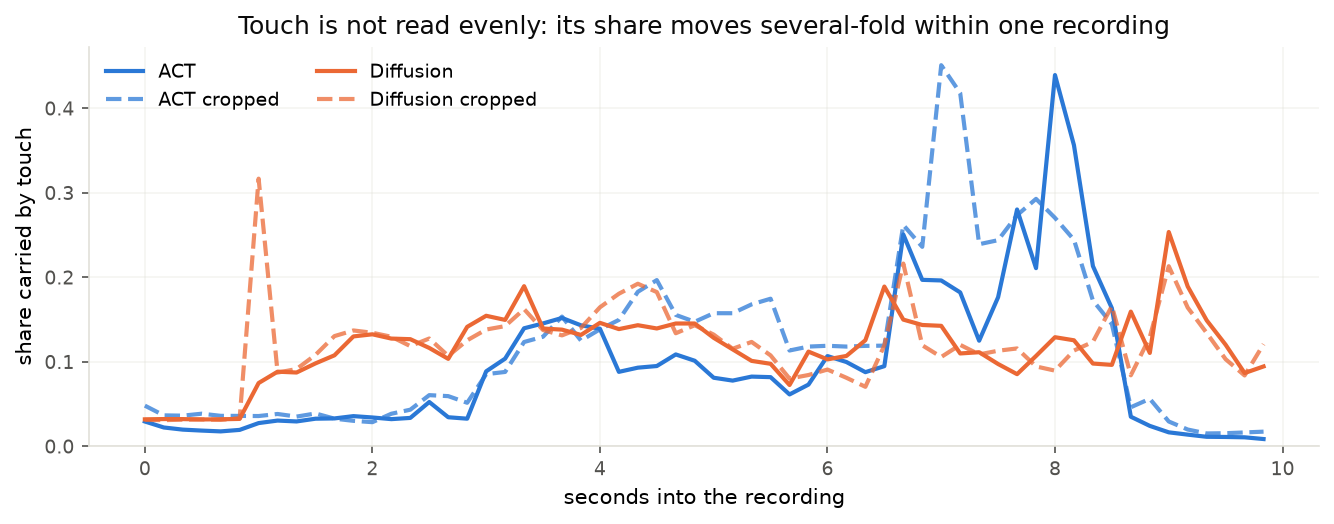
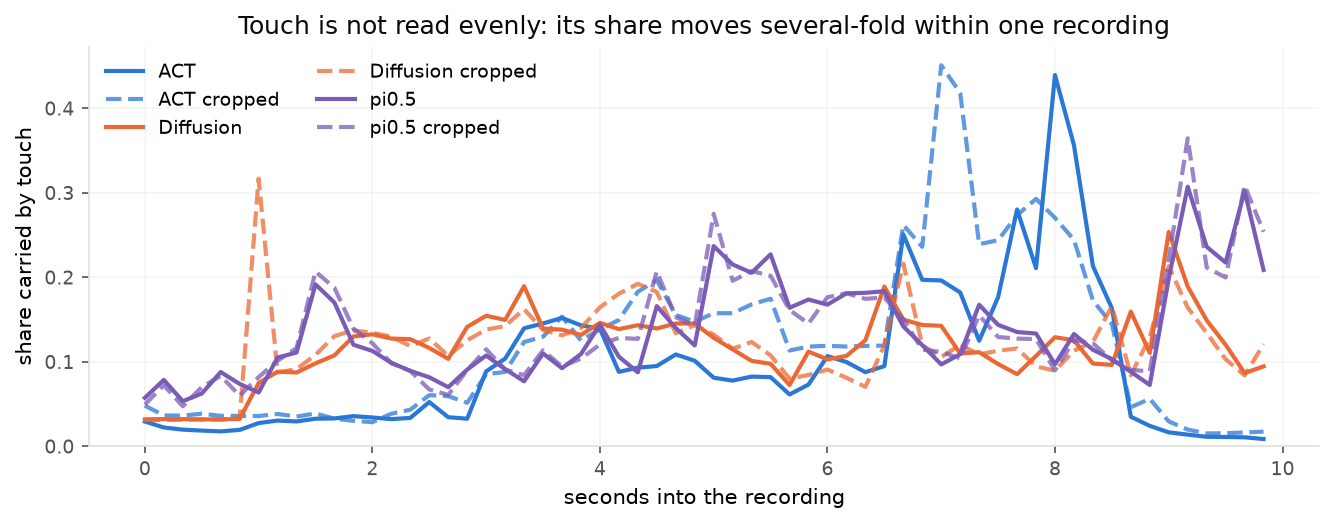
The third family's rows, a retracted figure, and the world models
pi0.5's held-out rows land, scored with its instruction: the smallest
gap in the table, and the report says why that is not generalisation --
its error on its own training recordings is above the other families'
error on recordings they never saw.

The stream-shares figure drew pi0.5 from a run that analysed an
untrained model (the adapter was never loaded), which is where "touch
above proprioception" came from. Rerun with the adapter: proprioception
about three quarters, like diffusion. The finding and the text change,
and the provenance says so.

Two new sections: the world models, and their future-observation
prediction -- scored against holding the last frame, plotted against
seconds because the two horizons barely overlap, with filmstrips of the
frames actually scored. Their action-error subsection is still pending.

Claude-Session: https://claude.ai/code/session_0196vDjqm3Zo6sQgqQLb5qwQ

diff --git a/documents/paper/training_analysis/sections/10_prediction.tex b/documents/paper/training_analysis/sections/10_prediction.tex
@@ -1,0 +1,108 @@
+\section{Predicting what the cameras will see}
+\label{sec:prediction}
+
+This section scores the predicted observations themselves, which is what the
+two world models exist for. It first states the trap that makes a raw image
+score misleading, then gives the measure that avoids it, and then shows the
+predictions next to what happened. Table~\ref{tab:prediction} and
+Figure~\ref{fig:predmargin} carry the numbers, and
+Figure~\ref{fig:filmstrip} carries the pictures.
+
+\paragraph{Repeating the present already scores well.}
+A camera that barely changes is easy to predict: copying the last observed
+frame forward matches the future closely. The fingertip cameras are the extreme
+case. Their gels change little except at contact, so holding the last frame
+already scores between about \num{21} and \num{27} decibels of peak
+signal-to-noise ratio (PSNR) on them, against \num{14} to \num{19} on the
+overhead camera.
+A model reported without that baseline would look good on the fingertips for a
+reason that has nothing to do with prediction.
+
+\paragraph{The measure is the margin over holding.}
+Every prediction is therefore scored beside the last observed frame held
+still, and the verdict is the number of horizon steps on which the model beats
+it by more than a tenth of a decibel. That is counted per camera and never
+pooled, because four of the five cameras are gels where holding is strong and
+the fifth is the one where the scene visibly moves; a pooled figure would be
+dominated by whichever group made prediction easiest. The structural similarity
+index (SSIM) is reported beside PSNR as a second opinion.
+
+\begin{table}[t]
+  \centering
+  \caption{Future-observation prediction on the seven held-back recordings.
+  \emph{Held} is the last observed frame repeated at every step. \emph{Steps
+  won} counts the horizon steps, each \SI{0.8}{\second} apart, on which the
+  model's PSNR exceeds holding by more than a tenth of a decibel. The two
+  models' steps are not the same length: the small model's are
+  \SI{0.8}{\second} apart, the large model's about \SI{0.13}{\second}, so
+  step counts compare within a row and never between models. The large model
+  reads the four fingertips as one composite image.}
+  \label{tab:prediction}
+  \small
+  \input{tables/prediction_table}
+\end{table}
+
+\begin{figure}[t]
+  \centering
+  \includegraphics[width=\textwidth]{prediction_margin.png}
+  \caption{Each world model's PSNR minus that of holding the last frame, per
+  camera and per horizon step. Above the line the model predicts better than
+  doing nothing, plotted against time rather than step because the two models
+  predict over different spans: the small model from \SI{0.8}{\second} to
+  \SI{4.8}{\second} ahead, the large one to about \SI{1}{\second}. For the
+  small model the fingertip line is the mean of its four fingertip cameras; the
+  large model is scored on its single composite.}
+  \label{fig:predmargin}
+\end{figure}
+
+\textbf{The small world model predicts the future better than holding the
+present, on every camera, from the second step onwards.} It wins five or six
+of six steps on each camera, by roughly three to eight decibels beyond the
+first step. The margin is largest on the fingertip cameras, which is where
+holding is strongest, so the model is not winning where the baseline is weak.
+It loses or ties only at the first step, \SI{0.8}{\second} ahead, where the
+future still looks almost exactly like the present.
+
+\begin{figure}[t]
+  \centering
+  \includegraphics[width=\textwidth]{dreamzero_filmstrip.png}
+  \caption{One held-back moment, as the small world model predicted it. For each camera the rows are what
+  happened, what the model predicted, and the last observed frame held still;
+  columns are horizon steps \SI{0.8}{\second} apart. The images are the ones
+  the numbers in Table~\ref{tab:prediction} were computed from.}
+  \label{fig:filmstrip}
+\end{figure}
+
+Figure~\ref{fig:filmstrip} shows what those margins look like. In the last
+observed frame the arms are down over the garment and one fingertip gel shows
+the bright marks of contact. In what actually followed, the arms lift clear and
+the contact marks vanish. \textbf{The model predicts the release rather than
+the present:} its fingertip rows lose the contact marks as the real ones do,
+and its overhead rows show the arms lifted. Its images are blurrier than the
+real ones, which is where the remaining error lies, but the change it predicts
+is the change that happened.
+
+\textbf{The large model predicts only a second ahead, and within that second
+it gains on holding only at the fingertips.} On the overhead camera it stays
+within half a decibel of the held frame throughout, winning two of its eight
+steps by the stated margin. On the fingertip composite it starts below holding
+and climbs to about five decibels above it by the end of its horizon. Its
+horizon is set by how it was trained, not by this evaluation: it predicts nine
+frames spaced four apart, so it never looks further ahead than the small
+model's first step.
+
+The two models overlap at one instant, \SI{0.8}{\second} ahead, and there the
+large model is ahead on both panels of Figure~\ref{fig:predmargin}. That is
+the only direct comparison the data allow, and it is one point. It is
+consistent with a pretrained video prior helping in the near term, and it says
+nothing about the seconds beyond, where only the small model predicts at all
+and where it keeps its margin. Whether the prior buys anything over a longer
+horizon would need the large model trained to predict one.
+
+Three limits bound this section. Both models sample, and every number here uses
+one pinned seed; a different seed gives a different rollout, and the spread
+across seeds was not measured for these checkpoints. The two models see the
+fingertips differently, as four images or one composite, so their fingertip
+margins are comparable in direction and not to the decibel. And predicting the
+next few seconds of the cameras well is not the same as acting well:
+Section~\ref{sec:wmactions} is where their actions are scored.

diff --git a/documents/paper/training_analysis/sections/06_findings.tex b/documents/paper/training_analysis/sections/06_findings.tex
@@ -46,13 +46,13 @@ observation that motivated the crop. \emph{Bound:} measured on training
 recordings, and the rise after cropping is partly mechanical, since removing
 the outer rows moves the surviving pixels closer to the new edge.
 
-\paragraph{\textbf{The families do not use the rig the same way, and the
-tactile channels rank last for two of the three.}} The action-chunking family
-leans on the overhead camera, the diffusion family on proprioception, and the
-third ranks touch above proprioception --- the only one to do so.
-\emph{Bound:} shares are normalised within a policy, so this is a claim about
-ordering and never about magnitudes; and the third family reads half as many
-tactile cameras as the others.
+\paragraph{\textbf{The families do not use the rig the same way, and two of
+the three lean mostly on proprioception.}} The action-chunking family leans on
+the overhead camera; the diffusion and fine-tuned families each take about
+three quarters of their plan's movement from where the arms are. Touch ranks
+last or near-last for all three. \emph{Bound:} shares are normalised within a
+policy, so this is a claim about ordering and never about magnitudes; and the
+fine-tuned family reads half as many tactile cameras as the others.
 
 \paragraph{\textbf{A pooled contribution understates what touch does by about
 fivefold.}} Within one held-back recording the share carried by the fingertip
@@ -62,12 +62,12 @@ carries much of the plan. \emph{Bound:} one recording, and a contribution is a
 measure of use rather than of necessity; the swing is large enough that its
 direction does not depend on either.
 
-\paragraph{\textbf{The two families read touch in different rhythms, not merely
-in different amounts.}} The action-chunking family reads it in bursts, peaking
-at four to five times its own mean; the diffusion family reads it steadily,
-peaking at barely twice. \emph{Bound:} visible only framewise, on one recording,
+\paragraph{\textbf{Only one of the three families reads touch in bursts.}}
+The action-chunking family peaks at four to five times its own mean; the
+diffusion and fine-tuned families read it steadily, peaking at two to two and
+a half times theirs. \emph{Bound:} visible only framewise, on one recording,
 and normalised within each policy --- so this compares each family against its
-own average and never one family's magnitude against the other's.
+own average and never one family's magnitude against another's.
 
 \paragraph{\textbf{A policy can be flat across its entire planning horizon on
 recordings it trained on.}} The action-chunking family predicts the hundredth
@@ -75,6 +75,13 @@ step of a familiar recording about as accurately as the first. That is what
 reproducing a memorised trajectory looks like, and it is not what planning
 looks like. \emph{Bound:} a statement about behaviour on training data, not
 about competence on the rig.
+
+\paragraph{\textbf{The smallest generalisation gap belongs to the least-fitted
+policy.}} The fine-tuned family loses only a tenth on recordings it never saw,
+because its error on recordings it trained on is already above the other
+families' held-out error. A small gap can mean a policy that never fitted its
+training data. \emph{Bound:} one training budget of about one pass over the
+data; a longer run could open the gap.
 
 One further finding follows from the control rather than from any single
 measurement. \textbf{The gap is not an artefact of when the held-back

diff --git a/documents/paper/training_analysis/sections/03_results.tex b/documents/paper/training_analysis/sections/03_results.tex
@@ -31,15 +31,15 @@ so neither can be quoted without the other.
   error divided by trained-on error. It appears in both groups because it
   differs between them: the longer-horizon family's ratio falls from
   \num{5.3} to \num{4.1} when the far end of its chunk --- where its held-out
-  error grows fastest --- is excluded. The dashes are the policy family whose
-  matched retraining had not finished when this was written.}
+  error grows fastest --- is excluded.}
   \label{tab:policies}
   \small
   \input{tables/policy_table}
 \end{table}
 
-Read across the shared-horizon column, the two families that have completed
-differ by less than a tenth, with the diffusion family ahead. Read down the gap
+Read across the shared-horizon column, the two families trained from scratch
+differ by less than a tenth, with the diffusion family ahead, and the fine-tuned
+family trails both by around half. Read down the gap
 column, they differ by more than twofold: the action-chunking family is roughly
 four times worse on recordings it never saw than on recordings it trained on,
 while the diffusion family is under twice as bad. The gap is a ratio computed
@@ -78,6 +78,21 @@ like. On recordings it never saw, the same family's error climbs steeply with
 distance into the chunk. The diffusion family climbs steeply in both panels,
 which is the ordinary and expected behaviour: predictions further ahead are
 worse.
+
+\textbf{The fine-tuned family's small gap is not generalisation.} Its held-out
+error is only about a tenth above its trained-on error, the smallest gap in
+Table~\ref{tab:policies}, and read alone that looks like the most robust policy
+in the report. It is not. Over the shared horizon its error on recordings it
+\emph{trained on} is \num{13.8}, which is already higher than either other
+family's error on recordings it \emph{never saw}, at \num{10.1} and \num{9.2}.
+Its two curves in Figure~\ref{fig:horizon} nearly coincide for the same reason.
+This family trained for roughly one pass over its recordings, adapting only a
+small low-rank addition to a large pretrained model, so it never fitted the
+training half closely enough to have anything to lose on the held-out half. Its
+row therefore measures what this training budget buys, not how the family
+compares at convergence. It also reads three cameras where the others read
+five. Its cropped arm is about one per cent lower on both halves, but no
+sampler floor was measured for this family, so that difference is not claimed.
 
 \unjustified{} the sampling rate of one frame in twenty was chosen to keep the
 scoring of six policies within a working day and has not been shown to leave

diff --git a/documents/paper/training_analysis/sections/05b_framewise.tex b/documents/paper/training_analysis/sections/05b_framewise.tex
@@ -28,11 +28,12 @@ whether two panels differ because the policies differ or because the moments do.
 \begin{figure}[t]
   \centering
   \includegraphics[width=\textwidth]{framewise_shares.png}
-  \caption{The share of the plan carried by the four fingertip cameras, through
+  \caption{The share of the plan carried by the fingertip cameras, through
   one held-back recording. Colour follows the family and a dashed line marks the
   cropped arm, so the pair within a colour is the crop comparison. Shares are
   normalised within a policy, so heights may be compared along a curve but not
-  between colours.}
+  between colours. The fine-tuned family reads two fingertip cameras and the
+  others four.}
   \label{fig:framewise}
 \end{figure}
 
@@ -45,13 +46,17 @@ over two fifths of the plan at its peak. Any conclusion of the form ``the
 tactile cameras contribute little'' drawn from a pooled figure is therefore a
 statement about an average, not about the moments the sensor exists for.
 
-\textbf{The two families do not read touch the same way.} The action-chunking
-family reads it in bursts, its peak reaching four to five times its own mean;
-the diffusion family reads it steadily, ranging eightfold where the other ranges
-fiftyfold, and peaking at barely twice its mean. One family treats the
-fingertips as an occasional check and the other as a continuous input, and that
-difference is invisible in every pooled figure in this report. Why they differ
-is not established here.
+\textbf{Only the action-chunking family reads touch in bursts.} Its peak
+reaches four to five times its own mean. The diffusion family reads touch
+steadily, ranging eightfold where the action-chunking family ranges fiftyfold,
+and peaking at barely twice its mean. The fine-tuned family behaves like the
+diffusion family, peaking at around two and a half times its mean. One family
+treats the fingertips as an occasional check and the other two as a continuous
+input, and that difference is invisible in every pooled figure in this report.
+The two steady families both generate their plans by iterative denoising, and
+the bursty one does not; that is a correlation across three policies and is
+not tested here. The fine-tuned family reads only two of the four fingertip
+cameras, so its share is over those two.
 
 \begin{figure}[t]
   \centering

diff --git a/documents/paper/training_analysis/sections/07_provenance.tex b/documents/paper/training_analysis/sections/07_provenance.tex
@@ -34,7 +34,10 @@ policy. The shared-horizon column is the same curve averaged over only its first
 thirty-two positions, which is why the two columns can differ for the same
 policy and why both are reported. Policies whose output is sampled have their
 sampler fixed to a recorded seed, so that rerunning the scoring reproduces the
-number rather than redrawing it.
+number rather than redrawing it. The fine-tuned family reads a written
+instruction as well as its cameras, and it is scored with the instruction it
+was trained on; an earlier scoring that supplied none put its held-out error
+about a tenth higher.
 
 \paragraph{The input contributions, Figure~\ref{fig:streams}.}
 For each sampled frame the policy plans once with all inputs present. Each input
@@ -44,6 +47,13 @@ than introducing an artificial edge --- and the policy plans again. The size of
 the change between the two plans is that group's contribution on that frame.
 Contributions are summed over frames and normalised to sum to one within each
 policy, which is what restricts the figure to statements about ordering.
+
+\textbf{A correction to this figure.} An earlier version drew the fine-tuned
+family's bar from a run in which its trained adapter had not been loaded, so it
+described an untrained model; that bar put proprioception at a twentieth and
+touch at two fifths. The bar shown here reruns the same checkpoint on the same
+recordings with the adapter loaded and the task instruction supplied. The other
+two bars were never affected, because those families store complete weights.
 
 \paragraph{The rim measure, Figure~\ref{fig:rim}.}
 Gradient maps are computed for the tactile cameras, giving one map per camera

diff --git a/documents/paper/training_analysis/sections/08_threats.tex b/documents/paper/training_analysis/sections/08_threats.tex
@@ -50,13 +50,14 @@ it would do worse --- a stream can be ignored because a correlated one carries
 the same information. Retraining with the stream removed is what answers the
 second question, and it costs a training run per stream rather than minutes.
 
-\paragraph{One family's numbers are still pending.}
-The matched retraining of the third family had not finished when this was
-written, so its rows are dashes. Every cross-family statement here is therefore
-a statement about two families, and the third may not follow the same pattern:
-it differs in the cameras it reads, in being a finetune of a pretrained model
-rather than a model trained from scratch, and in planning a different distance
-ahead again.
+\paragraph{The fine-tuned family is under-trained, not merely different.}
+Its matched retraining completed, but on a budget of about one pass over the
+recordings, adapting a small low-rank addition rather than the whole model.
+Its row answers what that budget buys. It does not say how the family compares
+with the others once each has fitted its data, and its near-unity gap reflects
+a training set it never fitted, as Section~\ref{sec:results} shows. It also
+reads three cameras where the others read five, and its sampler's own spread
+was not measured, so differences of a few per cent in its row are not findings.
 
 \paragraph{None of this is an on-robot result.}
 Error against recorded commands measures agreement with one demonstrator on

diff --git a/documents/paper/training_analysis/sections/05_inputs.tex b/documents/paper/training_analysis/sections/05_inputs.tex
@@ -39,11 +39,12 @@ By that rule the families disagree, and not subtly. The action-chunking family
 leans on the overhead camera, with proprioception second and the four tactile
 cameras last by a wide margin. The diffusion family leans overwhelmingly on
 proprioception --- where the arms are matters more to it than what any camera
-shows --- with vision and touch far behind. The third family ranks touch
-\emph{above} proprioception, the only one of the three to do so, and that is an
-ordering claim the normalisation permits. It also reads half as many tactile
-cameras as the others, so whether that ranking reflects the architecture or the
-smaller, differently-chosen input set cannot be told apart here.
+shows --- with vision and touch far behind. The fine-tuned family resembles
+the diffusion family, leaning on proprioception for about three quarters of
+what moves its plan; it is the only one to rank its fingertip cameras, taken
+together, just above the overhead camera. It reads half as many tactile cameras
+as the others, so whether that narrow ordering reflects the architecture or the
+smaller input set cannot be told apart here.
 
 Two limits bound all of this. The frames are drawn from recordings the policies
 trained on, so the figure describes where a trained policy looks on familiar

diff --git a/documents/paper/training_analysis/tables/prediction_table.tex b/documents/paper/training_analysis/tables/prediction_table.tex
@@ -1,0 +1,15 @@
+\begin{tabular}{llrrrrr}
+\toprule
+& & \multicolumn{2}{c}{PSNR (dB)} & \multicolumn{2}{c}{SSIM} & \\
+\cmidrule(lr){3-4}\cmidrule(lr){5-6}
+camera & model & model & held & model & held & steps won \\
+\midrule
+overhead & DreamZero & 15.5 & 14.1 & 0.494 & 0.432 & 5 of 6 \\
+left arm left gripper & DreamZero & 30.1 & 25.9 & 0.895 & 0.857 & 5 of 6 \\
+left arm right gripper & DreamZero & 28.0 & 22.9 & 0.861 & 0.759 & 5 of 6 \\
+right arm left gripper & DreamZero & 24.8 & 20.7 & 0.788 & 0.688 & 5 of 6 \\
+right arm right gripper & DreamZero & 26.8 & 23.6 & 0.869 & 0.812 & 6 of 6 \\
+overhead & FastWAM & 18.5 & 18.6 & 0.711 & 0.695 & 2 of 8 \\
+fingertips, composite & FastWAM & 28.9 & 27.2 & 0.940 & 0.913 & 6 of 8 \\
+\bottomrule
+\end{tabular}

diff --git a/documents/paper/training_analysis/sections/09_world_models.tex b/documents/paper/training_analysis/sections/09_world_models.tex
@@ -10,7 +10,7 @@ predicted observations themselves.
 
 The two were chosen to bracket one question. The first is a small world model
 of about sixty million parameters, trained from scratch on this rig's
-recordings alone. The second is roughly a hundred times larger and starts from
+recordings alone, which reads all five cameras tiled into one frame. The second is roughly a hundred times larger and starts from
 a video generator pretrained on general footage, so it arrives already knowing
 how images tend to move. It reads the overhead camera and a single composite
 of the four fingertip images, arranged two by two. If the pretrained prior

diff --git a/documents/paper/training_analysis/tables/policy_table.tex b/documents/paper/training_analysis/tables/policy_table.tex
@@ -8,7 +8,7 @@ ACT & 100 & 2.672 & 14.091 & 5.3 & 10.107 & 4.1 \\
 ACT cropped & 100 & 2.626 & 14.677 & 5.6 & 9.995 & 4.1 \\
 Diffusion & 32 & 4.741 & 9.181 & 1.9 & 9.181 & 1.9 \\
 Diffusion cropped & 32 & 4.791 & 9.207 & 1.9 & 9.207 & 1.9 \\
-pi0.5 & -- & -- & -- & -- & -- & -- \\
-pi0.5 cropped & -- & -- & -- & -- & -- & -- \\
+pi0.5 & 50 & 17.054 & 18.346 & 1.1 & 14.817 & 1.1 \\
+pi0.5 cropped & 50 & 16.968 & 18.108 & 1.1 & 14.621 & 1.1 \\
 \bottomrule
 \end{tabular}

diff --git a/tool/report_figures.py b/tool/report_figures.py
@@ -543,7 +543,7 @@ def main() -> int:
     parser.add_argument(
         "--mse",
         nargs="+",
-        default=["outputs/mse/thanos/2026-09-16", "outputs/mse/thanos/2026-09-19"],
+        default=["outputs/mse/thanos/2026-09-16", "outputs/mse/thanos/2026-09-25"],
         help="directories of <prefix><arm>.json action-error results; an arm "
         "found in two is an error, so a rerun cannot silently shadow the original",
     )

diff --git a/documents/paper/training_analysis/training_analysis.tex b/documents/paper/training_analysis/training_analysis.tex
@@ -59,5 +59,7 @@ separate.
 \input{sections/06_findings}
 \input{sections/07_provenance}
 \input{sections/08_threats}
+\input{sections/09_world_models}
+\input{sections/10_prediction}
 
 \end{document}
